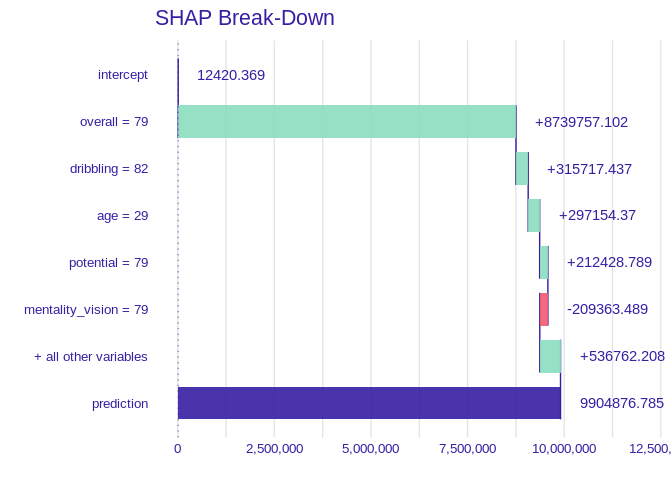
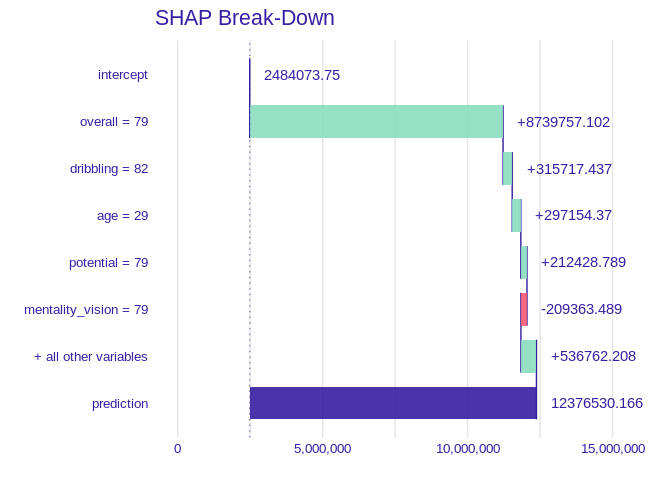
refreshing readme

diff --git a/README.md b/README.md
@@ -33,7 +33,7 @@ devtools::install_github('ModelOriented/treeshap')
 ## Example
 
 First of all, let’s focus on an example how to represent a `xgboost`
-model as a unified data frame:
+model as a unified model object:
 
 ``` r
 library(treeshap)
@@ -42,39 +42,36 @@ data <- fifa20$data[colnames(fifa20$data) != 'work_rate']
 target <- fifa20$target
 param <- list(objective = "reg:squarederror", max_depth = 6)
 xgb_model <- xgboost::xgboost(as.matrix(data), params = param, label = target, nrounds = 200, verbose = 0)
-unified <- xgboost.unify(xgb_model)
+unified <- xgboost.unify(xgb_model, data)
 unified
-#>        Tree Node   Feature Split Yes No Missing  Prediction   Cover
-#>     1:    0    0   overall  81.5   2  3       2  3.060549e+17 18278
-#>     2:    0    1   overall  73.5   4  5       4  1.130790e+17 17949
-#>     3:    0    2   overall  84.5   6  7       6  4.021330e+16   329
-#>     4:    0    3   overall  69.5   8  9       8  1.165151e+16 15628
-#>     5:    0    4 potential  79.5  10 11      10  1.813107e+16  2321
-#>    ---                                                             
-#> 17850:  199   50      <NA>    NA  NA NA      NA -2.284977e+03     8
-#> 17851:  199   51      <NA>    NA  NA NA      NA -1.966713e+03   167
-#> 17852:  199   52      <NA>    NA  NA NA      NA -2.034138e+04    12
-#> 17853:  199   53      <NA>    NA  NA NA      NA  1.711017e+04    15
-#> 17854:  199   54      <NA>    NA  NA NA      NA  4.351900e+02    44
+#>        Tree Node   Feature Decision.type Split Yes No Missing Prediction Cover
+#>     1:    0    0   overall            <=  81.5   2  3       2         NA 18278
+#>     2:    0    1   overall            <=  73.5   4  5       4         NA 17949
+#>     3:    0    2   overall            <=  84.5   6  7       6         NA   329
+#>     4:    0    3   overall            <=  69.5   8  9       8         NA 15628
+#>     5:    0    4 potential            <=  79.5  10 11      10         NA  2321
+#>    ---                                                                        
+#> 17850:  199   50      <NA>          <NA>    NA  NA NA      NA  -2284.977     8
+#> 17851:  199   51      <NA>          <NA>    NA  NA NA      NA  -1966.713   167
+#> 17852:  199   52      <NA>          <NA>    NA  NA NA      NA -20341.381    12
+#> 17853:  199   53      <NA>          <NA>    NA  NA NA      NA  17110.170    15
+#> 17854:  199   54      <NA>          <NA>    NA  NA NA      NA    435.190    44
 ```
 
-Having the data frame of unified structure, it is a piece of cake to
-produce shap values of a prediction for a specific observation. The
-`treeshap()` function requires passing two data frames: one representing
-an ensemble model and one with the observations about which we want to
-get the explanation. Obviously, the latter one should contain the same
-columns as data used during building the model.
+Having the object of unified structure, it is a piece of cake to produce
+shap values of for a specific observations. The `treeshap()` function
+requires passing two data arguments: one representing an ensemble model
+unified representation and one with the observations about which we want
+to get the explanations. Obviously, the latter one should contain the
+same columns as data used during building the model.
 
 ``` r
-treeshap_values <- treeshap(unified,  data[700:800, ])
-head(treeshap_values[, 1:6])
-#>          age height_cm weight_kg overall potential international_reputation
-#> 1   297154.4  5769.186 12136.316 8739757  212428.8               -50855.738
-#> 2 -2550066.6 16011.136  3134.526 6525123  244814.2                22784.430
-#> 3   300830.3 -9023.299 15374.550 8585145  479118.8                 2374.351
-#> 4  -132645.2 12380.183 33731.893 8321266  357679.5                49019.904
-#> 5   689402.9 -3369.050 16433.595 8933670  427577.5                12147.246
-#> 6 -1042288.0  5760.739  8428.627 6579288  289577.8                66873.547
+treeshap1 <- treeshap(unified,  data[700:800, ], verbose = 0)
+treeshap1$shaps[1:3, 1:6]
+#>            age height_cm weight_kg overall potential international_reputation
+#> 700   297154.4  5769.186 12136.316 8739757  212428.8               -50855.738
+#> 701 -2550066.6 16011.136  3134.526 6525123  244814.2                22784.430
+#> 702   300830.3 -9023.299 15374.550 8585145  479118.8                 2374.351
 ```
 
 We can also compute SHAP values for interactions. As an example we will
@@ -83,9 +80,10 @@ calculate them for a model built with simpler (only 5 columns) data.
 ``` r
 data2 <- fifa20$data[, 1:5]
 xgb_model2 <- xgboost::xgboost(as.matrix(data2), params = param, label = target, nrounds = 200, verbose = 0)
-unified2 <- xgboost.unify(xgb_model2)
-treeshap_interactions <- treeshap(unified2,  data2[1:2, ], interactions = TRUE)
-treeshap_interactions
+unified2 <- xgboost.unify(xgb_model2, data2)
+
+treeshap_interactions <- treeshap(unified2,  data2[1:300, ], interactions = TRUE, verbose = 0)
+treeshap_interactions$interactions[, , 1:2]
 #> , , 1
 #> 
 #>                   age  height_cm  weight_kg     overall  potential
@@ -103,14 +101,11 @@ treeshap_interactions
 #> weight_kg   120483.9  -48271.61  -21657.14  -615688.2 -380810.70
 #> overall   -9871270.0 -991020.68 -615688.21 57384425.2 9603937.05
 #> potential   960198.0  -44632.74 -380810.70  9603937.1 2994190.74
-#> 
-#> attr(,"class")
-#> [1] "array"             "shap.interactions"
 ```
 
 ## Plotting results
 
-The package currently provides 3 plotting functions that can be used
+The package currently provides 4 plotting functions that can be used:
 
 ### Feature Contribution (Break-Down)
 
@@ -121,7 +116,7 @@ uses different method to approximate SHAP
 values.
 
 ``` r
-plot_contribution(treeshap_values[1, ], data[700, ], unified, min_max = c(0, 12000000))
+plot_contribution(treeshap1, obs = 1, min_max = c(0, 16000000))
 ```
 
 <img src="man/figures/README-plot_contribution_example-1.png" width="100%" />
@@ -133,7 +128,7 @@ of the
 model.
 
 ``` r
-plot_feature_importance(treeshap_values, max_vars = 6)
+plot_feature_importance(treeshap1, max_vars = 6)
 ```
 
 <img src="man/figures/README-plot_importance_example-1.png" width="100%" />
@@ -145,65 +140,33 @@ prediction depending on its
 value.
 
 ``` r
-plot_feature_dependence(treeshap_values, data[700:800, ], "height_cm")
+plot_feature_dependence(treeshap1, "height_cm")
 ```
 
 <img src="man/figures/README-plot_dependence_example-1.png" width="100%" />
 
-## How fast does it work?
+### Interaction Plot
 
-Complexity of TreeSHAP is `O(TLD^2)`, where `T` is number of trees, `L`
-is number of leaves in a tree and `D` is depth of a tree.
-
-Our implementation works in speed comparable to original Lundberg’s
-Python package `shap` implementation using C and Python.
-
-In the following example our TreeSHAP implementation explains 300
-observations on a model consisting of 200 trees of max depth = 6 in les
-than 2 seconds.
+Simple plot to visualise an SHAP Interaction value of two features
+depending on their values.
 
 ``` r
-microbenchmark::microbenchmark(
-  treeshap = treeshap(unified,  data[1:300, ]), # using model and dataset from the example
-  times = 5
-)
-#> Unit: seconds
-#>      expr      min       lq    mean   median       uq      max neval
-#>  treeshap 1.782249 1.784161 1.80818 1.792438 1.812077 1.869973     5
+plot_interaction(treeshap_interactions, "height_cm", "overall")
 ```
 
-Complexity of SHAP interaction values computation is `O(MTLD^2)`, where
-`M` is number of variables in explained dataset, `T` is number of trees,
-`L` is number of leaves in a tree and `D` is depth of a tree.
-
-SHAP Interaction values for 5 variables, model consisting of 200 trees
-of max depth = 6 and 300 observations can be computed in less than 8
-seconds.
-
-``` r
-microbenchmark::microbenchmark(
-  treeshap = treeshap(unified2, data2[1:300, ], interactions = TRUE), # using model and dataset from the example
-  times = 5
-)
-#> Unit: seconds
-#>      expr      min       lq     mean   median      uq      max neval
-#>  treeshap 7.088556 7.135377 7.139961 7.136265 7.14475 7.194855     5
-```
+<img src="man/figures/README-plot_interaction-1.png" width="100%" />
 
 ## How to use the unifying functions?
 
-Even though the data frames produced by the functions from `.unify()`
-family (`xgboost.unify()`, `lightgbm.unify()`, `gbm.unify()`,
+Even though the objects produced by the functions from `.unify()` family
+(`xgboost.unify()`, `lightgbm.unify()`, `gbm.unify()`,
 `catboost.unify()`, `randomForest.unify()`, `ranger.unify()`) are
 identical when it comes to the structure, due to different possibilities
 of saving and representing the trees among the packages, the usage of
-functions is slightly different. As an argument, first three listed
-functions take an object of appropriate model. The latter one,
-`catboost.unify()` requires a transformed dataset used for training the
-model - an object of class `catboost.Pool`. Both `randomForest.unify()`
-and `ranger.unify()` also require a dataset to calculate Cover values,
-usually dataset used for training the model. Here is a short example
-representing usage of two functions:
+functions is slightly different. As an argument, they all take an object
+of appropriate model and dataset used to train the model. One of them,
+`catboost.unify()` requires also a transformed dataset used for training
+the model - an object of class `catboost.Pool`.
 
 #### 1\. GBM
 
@@ -212,7 +175,6 @@ boosting model.
 
 ``` r
 library(gbm)
-#> Loaded gbm 2.1.5
 library(treeshap)
 x <- fifa20$data[colnames(fifa20$data) != 'work_rate']
 x['value_eur'] <- fifa20$target
@@ -224,14 +186,7 @@ gbm_model <- gbm::gbm(
   cv.folds = 2,
   interaction.depth = 2
 )
-head(gbm.unify(gbm_model))
-#>    Tree Node   Feature Split Yes No Missing    Prediction Cover
-#> 1:    0    0   overall  65.5   2  3       7       5484.52  9139
-#> 2:    0    1      <NA>    NA  NA NA      NA     -37500.00  4230
-#> 3:    0    2 potential  68.5   4  5       6       1017.26  4909
-#> 4:    0    3      <NA>    NA  NA NA      NA      -7500.00   747
-#> 5:    0    4      <NA>    NA  NA NA      NA     170000.00  4162
-#> 6:    0    5      <NA>    NA  NA NA      NA     142989.92  4909
+unified_gbm <- gbm.unify(gbm_model, x)
 ```
 
 #### 2\. Catboost
@@ -248,9 +203,67 @@ label <- fifa20$target
 dt.pool <- catboost::catboost.load_pool(data = as.data.frame(lapply(data, as.numeric)), label = label)
 cat_model <- catboost::catboost.train(
             dt.pool,
-            params = list(loss_function = 'RMSE', iterations = 100, metric_period = 10,
+            params = list(loss_function = 'RMSE', iterations = 100,
                           logging_level = 'Silent', allow_writing_files = FALSE))
-head(catboost.unify(cat_model, dt.pool))
+unified_catboost <- catboost.unify(cat_model, dt.pool, data)
+```
+
+## Setting reference dataset
+
+Dataset used as a reference for calculating SHAP values is stored in
+unified model representation object. It can be set any ime using
+`set_reference_dataset`
+function.
+
+``` r
+unified_catboost2 <- set_reference_dataset(unified_catboost, data[c(1000:2000), ])
+```
+
+## Other functionalities
+
+Package also implements `predict` function for calculating model’s
+predictions using unified representation.
+
+## How fast does it work?
+
+Complexity of TreeSHAP is `O(TLD^2)`, where `T` is number of trees, `L`
+is number of leaves in a tree and `D` is depth of a tree.
+
+Our implementation works in speed comparable to original Lundberg’s
+Python package `shap` implementation using C and Python.
+
+In the following example our TreeSHAP implementation explains 300
+observations on a model consisting of 200 trees of max depth = 6 in 2
+seconds (on my almost 10 years old laptop with Intel i5-2520M).
+
+``` r
+microbenchmark::microbenchmark(
+  treeshap = treeshap(unified,  data[1:300, ]), # using model and dataset from the example
+  times = 5
+)
+#> ================================================================================================================================================================================================================================================================================================================================================================================================================
+#> Unit: seconds
+#>      expr      min       lq     mean   median       uq      max neval
+#>  treeshap 1.843506 1.854562 1.928843 1.860579 1.979567 2.106003     5
+```
+
+Complexity of SHAP interaction values computation is `O(MTLD^2)`, where
+`M` is number of variables in explained dataset, `T` is number of trees,
+`L` is number of leaves in a tree and `D` is depth of a tree.
+
+SHAP Interaction values for 5 variables, model consisting of 200 trees
+of max depth = 6 and 300 observations can be computed in less than 8
+seconds.
+
+``` r
+microbenchmark::microbenchmark(
+  treeshap = treeshap(unified2, data2[1:300, ], interactions = TRUE), # using model and dataset from the example
+  times = 5
+)
+#> ================================================================================================================================================================================================================================================================================================================================================================================================================
+#> Unit: seconds
+#>      expr      min       lq     mean   median       uq      max neval
+#>  treeshap 7.002662 7.164377 7.275307 7.252302 7.301532 7.655663     5
 ```
 
 ## References
